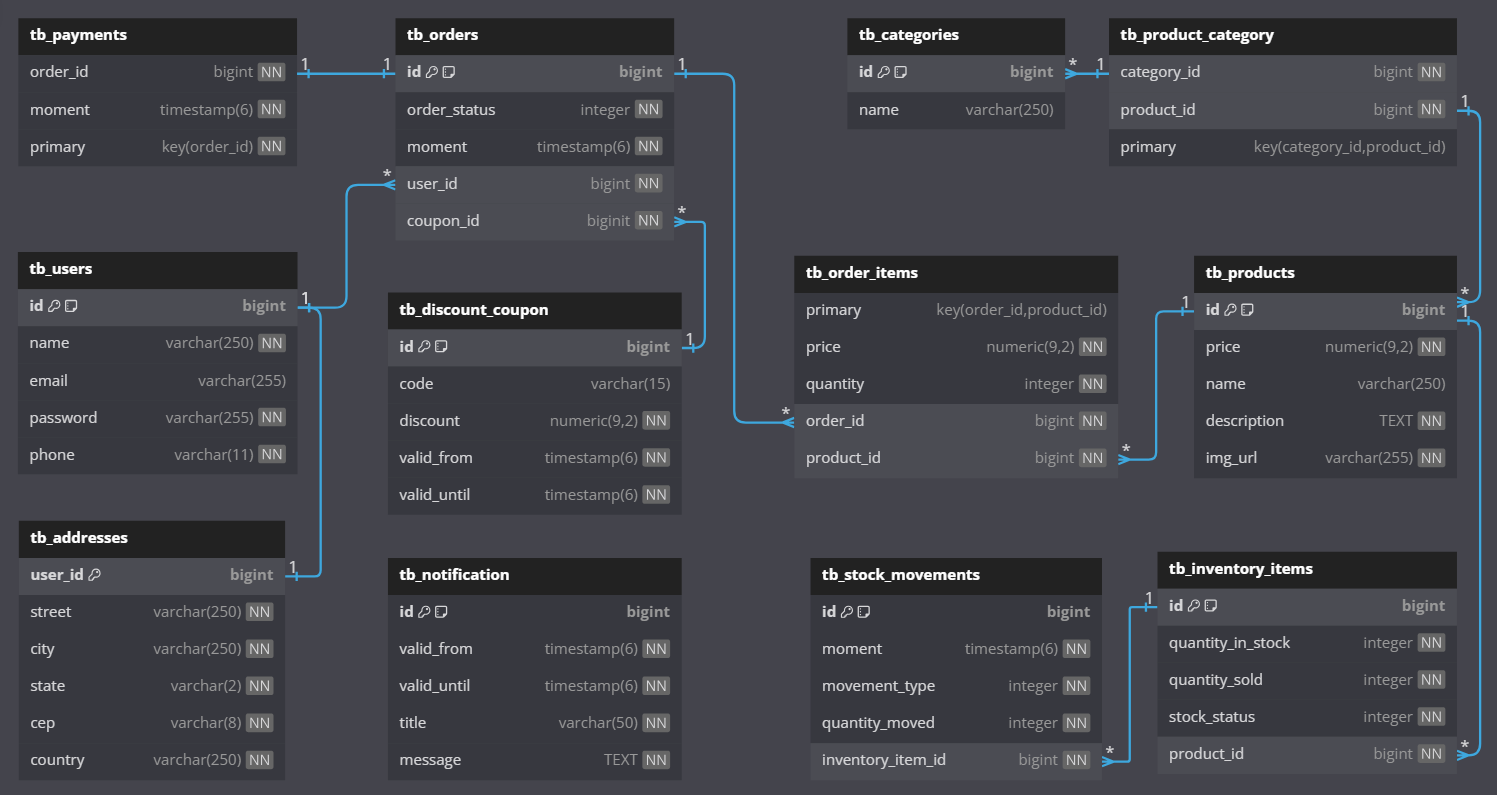
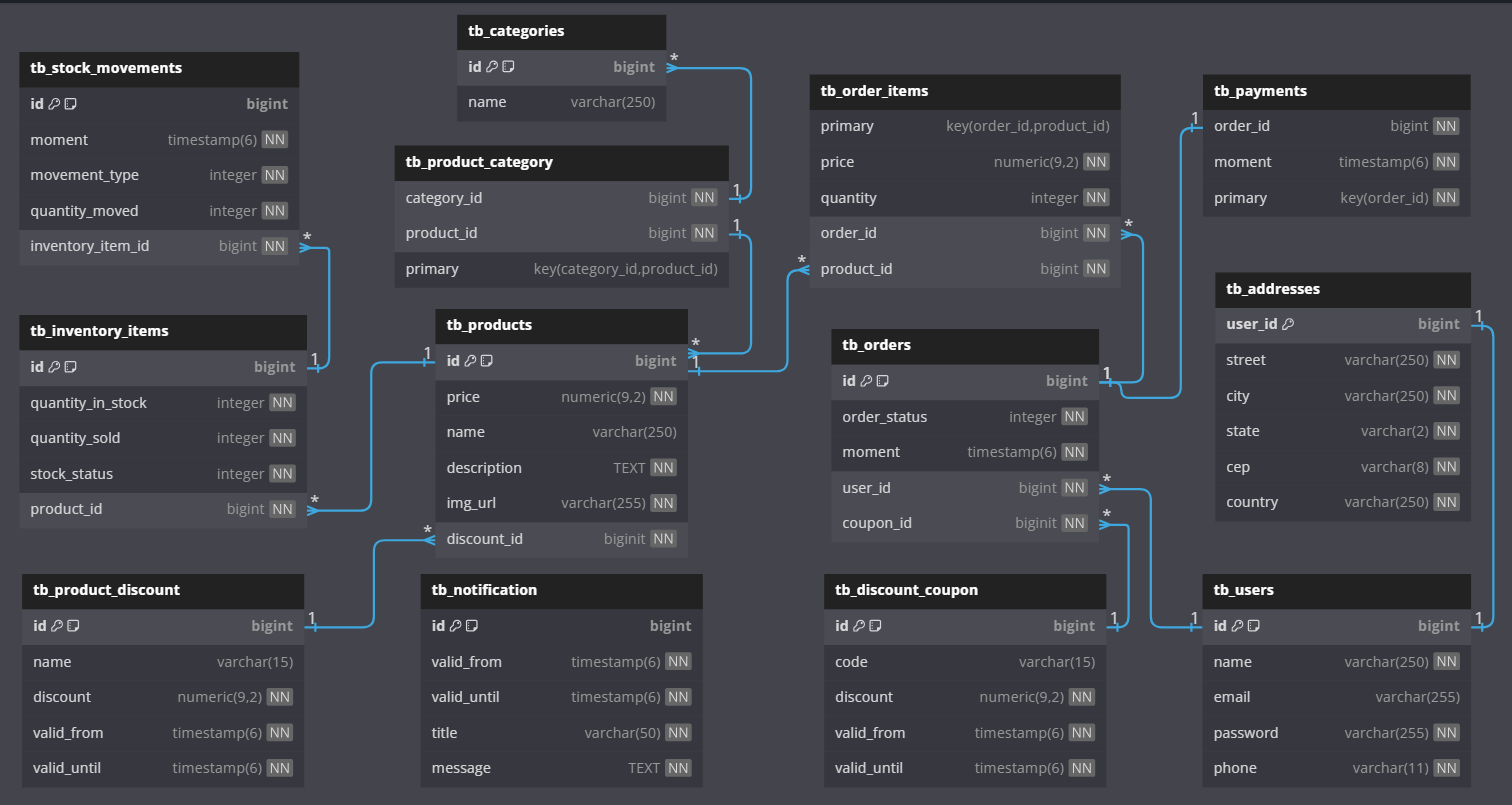
update: Update Readme

diff --git a/src/main/java/com/rogeriogregorio/ecommercemanager/services/impl/ProductServiceImpl.java b/src/main/java/com/rogeriogregorio/ecommercemanager/services/impl/ProductServiceImpl.java
@@ -4,9 +4,11 @@ import com.rogeriogregorio.ecommercemanager.dto.requests.ProductRequest;
 import com.rogeriogregorio.ecommercemanager.dto.responses.ProductResponse;
 import com.rogeriogregorio.ecommercemanager.entities.Category;
 import com.rogeriogregorio.ecommercemanager.entities.Product;
+import com.rogeriogregorio.ecommercemanager.entities.ProductDiscount;
 import com.rogeriogregorio.ecommercemanager.exceptions.NotFoundException;
 import com.rogeriogregorio.ecommercemanager.repositories.ProductRepository;
 import com.rogeriogregorio.ecommercemanager.services.CategoryService;
+import com.rogeriogregorio.ecommercemanager.services.ProductDiscountService;
 import com.rogeriogregorio.ecommercemanager.services.template.ErrorHandlerTemplate;
 import com.rogeriogregorio.ecommercemanager.services.ProductService;
 import com.rogeriogregorio.ecommercemanager.util.Converter;
@@ -25,6 +27,7 @@ public class ProductServiceImpl implements ProductService {
 
     private final ProductRepository productRepository;
     private final CategoryService categoryService;
+    private final ProductDiscountService productDiscountService;
     private final ErrorHandlerTemplate errorHandler;
     private final Converter converter;
     private final Logger logger = LogManager.getLogger();
@@ -32,10 +35,12 @@ public class ProductServiceImpl implements ProductService {
     @Autowired
     public ProductServiceImpl(ProductRepository productRepository,
                               CategoryService categoryService,
+                              ProductDiscountService productDiscountService,
                               ErrorHandlerTemplate errorHandler, Converter converter) {
 
         this.productRepository = productRepository;
         this.categoryService = categoryService;
+        this.productDiscountService = productDiscountService;
         this.errorHandler = errorHandler;
         this.converter = converter;
     }
@@ -124,9 +129,12 @@ public class ProductServiceImpl implements ProductService {
 
         List<Long> categoryIdList = productRequest.getCategoryIdList();
         List<Category> categoryList = categoryService.findAllCategoriesByIds(categoryIdList);
+        Long discountId = productRequest.getId();
+        ProductDiscount discount = productDiscountService.findProductDiscountById(discountId);
 
         Product product = converter.toEntity(productRequest, Product.class);
         product.getCategories().addAll(categoryList);
+        product.setProductDiscount(discount);
 
         return product;
     }

diff --git a/src/main/java/com/rogeriogregorio/ecommercemanager/dto/responses/ProductResponse.java b/src/main/java/com/rogeriogregorio/ecommercemanager/dto/responses/ProductResponse.java
@@ -4,10 +4,12 @@ import com.fasterxml.jackson.annotation.JsonIgnore;
 import com.rogeriogregorio.ecommercemanager.entities.Category;
 import com.rogeriogregorio.ecommercemanager.entities.Order;
 import com.rogeriogregorio.ecommercemanager.entities.OrderItem;
+import com.rogeriogregorio.ecommercemanager.entities.ProductDiscount;
 
 import java.io.Serial;
 import java.io.Serializable;
 import java.math.BigDecimal;
+import java.math.RoundingMode;
 import java.util.HashSet;
 import java.util.Set;
 
@@ -21,18 +23,21 @@ public class ProductResponse implements Serializable {
     private String description;
     private BigDecimal price;
     private String imgUrl;
+    private ProductDiscount productDiscount;
     private Set<Category> categories = new HashSet<>();
     private Set<OrderItem> items = new HashSet<>();
 
     public ProductResponse() {
     }
 
-    public ProductResponse(Long id, String name, String description, Double price, String imgUrl) {
+    public ProductResponse(Long id, String name, String description, Double price,
+                           String imgUrl, ProductDiscount productDiscount) {
         this.id = id;
         this.name = name;
         this.description = description;
         this.price = BigDecimal.valueOf(price);
         this.imgUrl = imgUrl;
+        this.productDiscount = productDiscount;
     }
 
     public Long getId() {
@@ -79,8 +84,34 @@ public class ProductResponse implements Serializable {
         return categories;
     }
 
+    public ProductDiscount getProductDiscount() {
+        return productDiscount;
+    }
+
+    public void setProductDiscount(ProductDiscount productDiscount) {
+        this.productDiscount = productDiscount;
+    }
+
     public void setCategories(Set<Category> categories) {
         this.categories = categories;
+    }
+
+    public boolean isDiscountPresent() {
+        return productDiscount != null;
+    }
+
+    public BigDecimal getPriceWithDiscount() {
+
+        BigDecimal productPrice = getPrice();
+
+        if (isDiscountPresent() && productDiscount.isValid()) {
+            BigDecimal discount = productDiscount.getDiscount();
+            BigDecimal discountPercentage = discount.divide(BigDecimal.valueOf(100), RoundingMode.HALF_UP);
+            BigDecimal discountValue = productPrice.multiply(discountPercentage);
+            productPrice = productPrice.subtract(discountValue);
+        }
+
+        return productPrice.setScale(2, RoundingMode.HALF_UP);
     }
 
     @JsonIgnore

diff --git a/src/main/java/com/rogeriogregorio/ecommercemanager/dto/requests/ProductRequest.java b/src/main/java/com/rogeriogregorio/ecommercemanager/dto/requests/ProductRequest.java
@@ -15,13 +15,15 @@ public class ProductRequest implements Serializable {
     private String description;
     private BigDecimal price;
     private String imgUrl;
+    private Long discountId;
     private List<Long> categoryIdList;
 
     public ProductRequest() {
     }
 
-    public ProductRequest(String name, String description,
-                          Double price, String imgUrl, List<Long> categoryIdList) {
+    public ProductRequest(String name, String description, Double price,
+                          String imgUrl,  List<Long> categoryIdList) {
+
         this.name = name;
         this.description = description;
         this.price = BigDecimal.valueOf(price);
@@ -29,13 +31,15 @@ public class ProductRequest implements Serializable {
         this.categoryIdList = categoryIdList;
     }
 
-    public ProductRequest(Long id, String name, String description,
-                          Double price, String imgUrl, List<Long> categoryIdList) {
+    public ProductRequest(Long id, String name, String description, Double price,
+                          String imgUrl, Long discountId, List<Long> categoryIdList) {
+
         this.id = id;
         this.name = name;
         this.description = description;
         this.price = BigDecimal.valueOf(price);
         this.imgUrl = imgUrl;
+        this.discountId = discountId;
         this.categoryIdList = categoryIdList;
     }
 
@@ -77,6 +81,14 @@ public class ProductRequest implements Serializable {
 
     public void setImgUrl(String imgUrl) {
         this.imgUrl = imgUrl;
+    }
+
+    public Long getDiscountId() {
+        return discountId;
+    }
+
+    public void setDiscountId(Long discountId) {
+        this.discountId = discountId;
     }
 
     public List<Long> getCategoryIdList() {

diff --git a/src/main/java/com/rogeriogregorio/ecommercemanager/security/config/SecurityConfig.java b/src/main/java/com/rogeriogregorio/ecommercemanager/security/config/SecurityConfig.java
@@ -98,7 +98,12 @@ public class SecurityConfig {
                         .requestMatchers(HttpMethod.POST, "/api/v1/notifications").hasAnyRole("ADMIN", "MANAGER")
                         .requestMatchers(HttpMethod.PUT, "/api/v1/notifications").hasAnyRole("ADMIN", "MANAGER")
                         .requestMatchers(HttpMethod.DELETE, "/api/v1/notifications/{id}").hasAnyRole("ADMIN", "MANAGER")
-                        .requestMatchers(HttpMethod.GET, "/api/v1/notifications/{id}").hasAnyRole("ADMIN", "MANAGER")
+                        .requestMatchers(HttpMethod.GET, "/api/v1/notifications/{id}").hasAnyRole("ADMIN", "MANAGER", "CLIENT")
+                        .requestMatchers(HttpMethod.GET, "/api/v1/product-discounts").hasAnyRole("ADMIN", "MANAGER")
+                        .requestMatchers(HttpMethod.POST, "/api/v1/product-discounts").hasAnyRole("ADMIN", "MANAGER")
+                        .requestMatchers(HttpMethod.PUT, "/api/v1/product-discounts").hasAnyRole("ADMIN", "MANAGER")
+                        .requestMatchers(HttpMethod.DELETE, "/api/v1/product-discounts/{id}").hasAnyRole("ADMIN", "MANAGER")
+                        .requestMatchers(HttpMethod.GET, "/api/v1/product-discounts/{id}").hasAnyRole("ADMIN", "MANAGER")
                         .anyRequest().authenticated()
                 )
                 .addFilterBefore(securityFilterConfig, UsernamePasswordAuthenticationFilter.class)

diff --git a/src/main/java/com/rogeriogregorio/ecommercemanager/entities/Product.java b/src/main/java/com/rogeriogregorio/ecommercemanager/entities/Product.java
@@ -63,14 +63,18 @@ public class Product implements Serializable {
     public Product() {
     }
 
-    public Product(String name, String description, Double price, String imgUrl) {
+    public Product(String name, String description,
+                   Double price, String imgUrl) {
+
         this.name = name;
         this.description = description;
         this.price = BigDecimal.valueOf(price);
         this.imgUrl = imgUrl;
     }
 
-    public Product(Long id, String name, String description, Double price, String imgUrl, ProductDiscount productDiscount) {
+    public Product(Long id, String name, String description, Double price,
+                   String imgUrl, ProductDiscount productDiscount) {
+
         this.id = id;
         this.name = name;
         this.description = description;
@@ -121,6 +125,14 @@ public class Product implements Serializable {
 
     public Set<Category> getCategories() {
         return categories;
+    }
+
+    public ProductDiscount getProductDiscount() {
+        return productDiscount;
+    }
+
+    public void setProductDiscount(ProductDiscount productDiscount) {
+        this.productDiscount = productDiscount;
     }
 
     public boolean isDiscountPresent() {

diff --git a/src/test/java/com/rogeriogregorio/ecommercemanager/services/ProductServiceImplTest.java b/src/test/java/com/rogeriogregorio/ecommercemanager/services/ProductServiceImplTest.java
@@ -44,7 +44,7 @@ class ProductServiceImplTest {
     @BeforeEach
     void setUp() {
         MockitoAnnotations.openMocks(this);
-        productService = new ProductServiceImpl(productRepository, categoryService, converter, mapper);
+        productService = new ProductServiceImpl(productRepository, categoryService, productDiscountService, converter, mapper);
     }
 
     @Test

diff --git a/README.md b/README.md
@@ -46,67 +46,72 @@ gerenciamento de:
 
 ## Funcionalidades implementadas até o momento
 
-| Descrição                                   | Método HTTP | Endpoint                               | Autorizações           |
-|---------------------------------------------|-------------|----------------------------------------|------------------------|
-| Registro de usuário                         | POST        | /api/v1/register                       | Não Requer Autorização |
-| Login de autenticação                       | POST        | /api/v1/login                          | ADMIN, MANAGER, CLIENT |
-| Listar endereços                            | GET         | /api/v1/addresses                      | ADMIN, MANAGER         |
-| Adicionar endereço                          | POST        | /api/v1/addresses                      | ADMIN, MANAGER, CLIENT |
-| Atualizar endereço                          | PUT         | /api/v1/addresses                      | ADMIN, MANAGER, CLIENT |
-| Excluir endereço                            | DELETE      | /api/v1/addresses/{id}                 | ADMIN, MANAGER, CLIENT |
-| Detalhes de um endereço específico          | GET         | /api/v1/addresses/{id}                 | ADMIN, MANAGER, CLIENT |
-| Listar categorias                           | GET         | /api/v1/categories                     | ADMIN, MANAGER, CLIENT | 
-| Adicionar categoria                         | POST        | /api/v1/categories                     | ADMIN, MANAGER         |
-| Atualizar categoria                         | PUT         | /api/v1/categories                     | ADMIN, MANAGER         |
-| Excluir categoria                           | DELETE      | /api/v1/categories/{id}                | ADMIN                  |
-| Detalhes de uma categoria específica        | GET         | /api/v1/categories/{id}                | ADMIN, MANAGER, CLIENT |
-| Pesquisar categoria por nome                | GET         | /api/v1/categories/search?name={name}  | ADMIN, MANAGER, CLIENT |
-| Listar itens de inventário                  | GET         | /api/v1/inventory-items                | ADMIN, MANAGER         |
-| Adicionar item de inventário                | POST        | /api/v1/inventory-items                | ADMIN, MANAGER         |
-| Atualizar item de inventário                | PUT         | /api/v1/inventory-items                | ADMIN, MANAGER         |
-| Excluir item de inventário                  | DELETE      | /api/v1/inventory-items/{id}           | ADMIN                  |
-| Detalhes de um item de inventário           | GET         | /api/v1/inventory-items/{id}           | ADMIN, MANAGER         |
-| Listar pedidos                              | GET         | /api/v1/orders                         | ADMIN, MANAGER         |
-| Adicionar pedido                            | POST        | /api/v1/orders                         | ADMIN, MANAGER, CLIENT |
-| Atualizar pedido                            | PUT         | /api/v1/orders                         | ADMIN, MANAGER, CLIENT |
-| Atualizar apenas status do pedido           | PUT         | /api/v1/orders/status                  | ADMIN, MANAGER         |
-| Excluir pedido                              | DELETE      | /api/v1/orders/{id}                    | ADMIN, MANAGER, CLIENT |
-| Detalhes de um pedido específico            | GET         | /api/v1/orders/{id}                    | ADMIN, MANAGER         |
-| Listar pedidos de um CLIENT                 | GET         | /api/v1/clients/{id}/orders            | ADMIN, MANAGER, CLIENT |
-| Listar itens de pedido                      | GET         | /api/v1/order-items                    | ADMIN, MANAGER, CLIENT |
-| Adicionar item de pedido                    | POST        | /api/v1/order-items                    | ADMIN, MANAGER, CLIENT |
-| Atualizar item de pedido                    | PUT         | /api/v1/order-items                    | ADMIN, MANAGER, CLIENT |
-| Excluir item de pedido                      | DELETE      | /api/v1/order-items/{id}               | ADMIN, MANAGER, CLIENT |
-| Detalhes de um item de pedido específico    | GET         | /api/v1/order-items/{orderId}/{itemId} | ADMIN, MANAGER, CLIENT |
-| Listar pagamentos                           | GET         | /api/v1/payments                       | ADMIN, MANAGER         |
-| Adicionar pagamento                         | POST        | /api/v1/payments                       | ADMIN, MANAGER, CLIENT |
-| Excluir pagamento                           | DELETE      | /api/v1/payments/{id}                  | ADMIN                  |
-| Detalhes de um pagamento específico         | GET         | /api/v1/payments/{id}                  | ADMIN, MANAGER         |
-| Listar produtos                             | GET         | /api/v1/products                       | ADMIN, MANAGER, CLIENT |
-| Adicionar produto                           | POST        | /api/v1/products                       | ADMIN, MANAGER         |
-| Atualizar produto                           | PUT         | /api/v1/products                       | ADMIN, MANAGER         |
-| Excluir produto                             | DELETE      | /api/v1/products/{id}                  | ADMIN                  |
-| Detalhes de um produto específico           | GET         | /api/v1/products/{id}                  | ADMIN, MANAGER, CLIENT |
-| Pesquisar produto por nome                  | GET         | /api/v1/products/search?name={name}    | ADMIN, MANAGER, CLIENT |
-| Listar movimentações de estoque             | GET         | /api/v1/stock-movements                | ADMIN, MANAGER         |
-| Adicionar movimentação de estoque           | POST        | /api/v1/stock-movements                | ADMIN, MANAGER         |
-| Atualizar movimentação de estoque           | PUT         | /api/v1/stock-movements                | ADMIN, MANAGER         |
-| Excluir movimentação de estoque             | DELETE      | /api/v1/stock-movements                | ADMIN                  |
-| Detalhes de uma movimentação de estoque     | GET         | /api/v1/stock-movements/{id}           | ADMIN, MANAGER         |
-| Listar usuários                             | GET         | /api/v1/users                          | ADMIN, MANAGER         |
-| Adicionar usuário                           | POST        | /api/v1/users                          | ADMIN, MANAGER, CLIENT |
-| Atualizar usuário                           | PUT         | /api/v1/users                          | ADMIN, MANAGER, CLIENT |
-| Excluir usuário                             | DELETE      | /api/v1/users/{id}                     | ADMIN, MANAGER, CLIENT |
-| Detalhes de um usuário específico           | GET         | /api/v1/users/{id}                     | ADMIN, MANAGER, CLIENT |
-| Pesquisar usuário por nome                  | GET         | /api/v1/users/search?name={name}       | ADMIN, MANAGER         |
-| Adicionar função de usuário                 | POST        | /api/v1/users/roles                    | ADMIN                  |
-| Listar cupons de desconto                   | GET         | /api/v1/discount-coupons               | ADMIN, MANAGER, CLIENT |
-| Criar cupom de desconto                     | POST        | /api/v1/discount-coupons               | ADMIN, MANAGER         |
-| Detalhes de um cupom de desconto específico | GET         | /api/v1/discount-coupons{id}           | ADMIN, MANAGER, CLIENT |
-| Atualizar cupom de desconto                 | PUT         | /api/v1/discount-coupons               | ADMIN, MANAGER         |
-| Excluir cupom de desconto                   | DELETE      | /api/v1/discount-coupons{id}           | ADMIN, MANAGER         |
-| Listar notificações                         | GET         | /api/v1/notifications                  | ADMIN, MANAGER, CLIENT |
-| Adicionar notificação                       | POST        | /api/v1/notifications                  | ADMIN, MANAGER,        |
-| Atualizar notificação                       | PUT         | /api/v1/notifications                  | ADMIN, MANAGER,        |
-| Excluir notificação                         | DELETE      | /api/v1/notifications/{id}             | ADMIN, MANAGER,        |
-| Detalhes de uma notificação específica      | GET         | /api/v1/notifications/{id}             | ADMIN, MANAGER, CLIENT |
+| Descrição                                      | Método HTTP | Endpoint                               | Autorizações           |
+|------------------------------------------------|-------------|----------------------------------------|------------------------|
+| Registro de usuário                            | POST        | /api/v1/register                       | Não Requer Autorização |
+| Login de autenticação                          | POST        | /api/v1/login                          | ADMIN, MANAGER, CLIENT |
+| Listar endereços                               | GET         | /api/v1/addresses                      | ADMIN, MANAGER         |
+| Adicionar endereço                             | POST        | /api/v1/addresses                      | ADMIN, MANAGER, CLIENT |
+| Atualizar endereço                             | PUT         | /api/v1/addresses                      | ADMIN, MANAGER, CLIENT |
+| Excluir endereço                               | DELETE      | /api/v1/addresses/{id}                 | ADMIN, MANAGER, CLIENT |
+| Detalhes de um endereço específico             | GET         | /api/v1/addresses/{id}                 | ADMIN, MANAGER, CLIENT |
+| Listar categorias                              | GET         | /api/v1/categories                     | ADMIN, MANAGER, CLIENT | 
+| Adicionar categoria                            | POST        | /api/v1/categories                     | ADMIN, MANAGER         |
+| Atualizar categoria                            | PUT         | /api/v1/categories                     | ADMIN, MANAGER         |
+| Excluir categoria                              | DELETE      | /api/v1/categories/{id}                | ADMIN                  |
+| Detalhes de uma categoria específica           | GET         | /api/v1/categories/{id}                | ADMIN, MANAGER, CLIENT |
+| Pesquisar categoria por nome                   | GET         | /api/v1/categories/search?name={name}  | ADMIN, MANAGER, CLIENT |
+| Listar itens de inventário                     | GET         | /api/v1/inventory-items                | ADMIN, MANAGER         |
+| Adicionar item de inventário                   | POST        | /api/v1/inventory-items                | ADMIN, MANAGER         |
+| Atualizar item de inventário                   | PUT         | /api/v1/inventory-items                | ADMIN, MANAGER         |
+| Excluir item de inventário                     | DELETE      | /api/v1/inventory-items/{id}           | ADMIN                  |
+| Detalhes de um item de inventário              | GET         | /api/v1/inventory-items/{id}           | ADMIN, MANAGER         |
+| Listar pedidos                                 | GET         | /api/v1/orders                         | ADMIN, MANAGER         |
+| Adicionar pedido                               | POST        | /api/v1/orders                         | ADMIN, MANAGER, CLIENT |
+| Atualizar pedido                               | PUT         | /api/v1/orders                         | ADMIN, MANAGER, CLIENT |
+| Atualizar apenas status do pedido              | PUT         | /api/v1/orders/status                  | ADMIN, MANAGER         |
+| Excluir pedido                                 | DELETE      | /api/v1/orders/{id}                    | ADMIN, MANAGER, CLIENT |
+| Detalhes de um pedido específico               | GET         | /api/v1/orders/{id}                    | ADMIN, MANAGER         |
+| Listar pedidos de um CLIENT                    | GET         | /api/v1/clients/{id}/orders            | ADMIN, MANAGER, CLIENT |
+| Listar itens de pedido                         | GET         | /api/v1/order-items                    | ADMIN, MANAGER, CLIENT |
+| Adicionar item de pedido                       | POST        | /api/v1/order-items                    | ADMIN, MANAGER, CLIENT |
+| Atualizar item de pedido                       | PUT         | /api/v1/order-items                    | ADMIN, MANAGER, CLIENT |
+| Excluir item de pedido                         | DELETE      | /api/v1/order-items/{id}               | ADMIN, MANAGER, CLIENT |
+| Detalhes de um item de pedido específico       | GET         | /api/v1/order-items/{orderId}/{itemId} | ADMIN, MANAGER, CLIENT |
+| Listar pagamentos                              | GET         | /api/v1/payments                       | ADMIN, MANAGER         |
+| Adicionar pagamento                            | POST        | /api/v1/payments                       | ADMIN, MANAGER, CLIENT |
+| Excluir pagamento                              | DELETE      | /api/v1/payments/{id}                  | ADMIN                  |
+| Detalhes de um pagamento específico            | GET         | /api/v1/payments/{id}                  | ADMIN, MANAGER         |
+| Listar produtos                                | GET         | /api/v1/products                       | ADMIN, MANAGER, CLIENT |
+| Adicionar produto                              | POST        | /api/v1/products                       | ADMIN, MANAGER         |
+| Atualizar produto                              | PUT         | /api/v1/products                       | ADMIN, MANAGER         |
+| Excluir produto                                | DELETE      | /api/v1/products/{id}                  | ADMIN                  |
+| Detalhes de um produto específico              | GET         | /api/v1/products/{id}                  | ADMIN, MANAGER, CLIENT |
+| Pesquisar produto por nome                     | GET         | /api/v1/products/search?name={name}    | ADMIN, MANAGER, CLIENT |
+| Listar movimentações de estoque                | GET         | /api/v1/stock-movements                | ADMIN, MANAGER         |
+| Adicionar movimentação de estoque              | POST        | /api/v1/stock-movements                | ADMIN, MANAGER         |
+| Atualizar movimentação de estoque              | PUT         | /api/v1/stock-movements                | ADMIN, MANAGER         |
+| Excluir movimentação de estoque                | DELETE      | /api/v1/stock-movements                | ADMIN                  |
+| Detalhes de uma movimentação de estoque        | GET         | /api/v1/stock-movements/{id}           | ADMIN, MANAGER         |
+| Listar usuários                                | GET         | /api/v1/users                          | ADMIN, MANAGER         |
+| Adicionar usuário                              | POST        | /api/v1/users                          | ADMIN, MANAGER, CLIENT |
+| Atualizar usuário                              | PUT         | /api/v1/users                          | ADMIN, MANAGER, CLIENT |
+| Excluir usuário                                | DELETE      | /api/v1/users/{id}                     | ADMIN, MANAGER, CLIENT |
+| Detalhes de um usuário específico              | GET         | /api/v1/users/{id}                     | ADMIN, MANAGER, CLIENT |
+| Pesquisar usuário por nome                     | GET         | /api/v1/users/search?name={name}       | ADMIN, MANAGER         |
+| Adicionar função de usuário                    | POST        | /api/v1/users/roles                    | ADMIN                  |
+| Listar cupons de desconto                      | GET         | /api/v1/discount-coupons               | ADMIN, MANAGER, CLIENT |
+| Criar cupom de desconto                        | POST        | /api/v1/discount-coupons               | ADMIN, MANAGER         |
+| Detalhes de um cupom de desconto específico    | GET         | /api/v1/discount-coupons{id}           | ADMIN, MANAGER, CLIENT |
+| Atualizar cupom de desconto                    | PUT         | /api/v1/discount-coupons               | ADMIN, MANAGER         |
+| Excluir cupom de desconto                      | DELETE      | /api/v1/discount-coupons{id}           | ADMIN, MANAGER         |
+| Listar notificações                            | GET         | /api/v1/notifications                  | ADMIN, MANAGER, CLIENT |
+| Adicionar notificação                          | POST        | /api/v1/notifications                  | ADMIN, MANAGER,        |
+| Atualizar notificação                          | PUT         | /api/v1/notifications                  | ADMIN, MANAGER,        |
+| Excluir notificação                            | DELETE      | /api/v1/notifications/{id}             | ADMIN, MANAGER,        |
+| Detalhes de uma notificação específica         | GET         | /api/v1/notifications/{id}             | ADMIN, MANAGER, CLIENT |
+| Listar descontos de produtos                   | GET         | /api/v1/product-discounts              | ADMIN, MANAGER         |
+| Adicionar desconto de produto                  | POST        | /api/v1/product-discounts              | ADMIN, MANAGER,        |
+| Atualizar desconto de produto                  | PUT         | /api/v1/product-discounts              | ADMIN, MANAGER,        |
+| Excluir desconto de produto                    | DELETE      | /api/v1/product-discounts/{id}         | ADMIN, MANAGER,        |
+| Detalhes de um desconto de produtoo específico | GET         | /api/v1/product-discounts/{id}         | ADMIN, MANAGER         |
